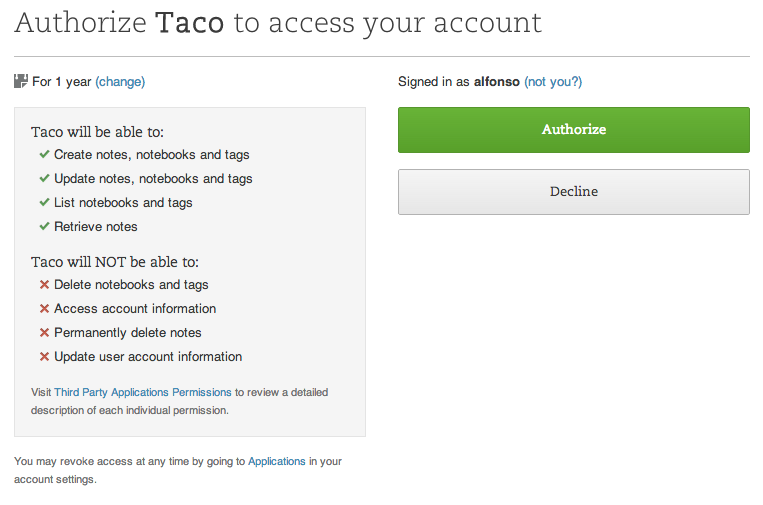
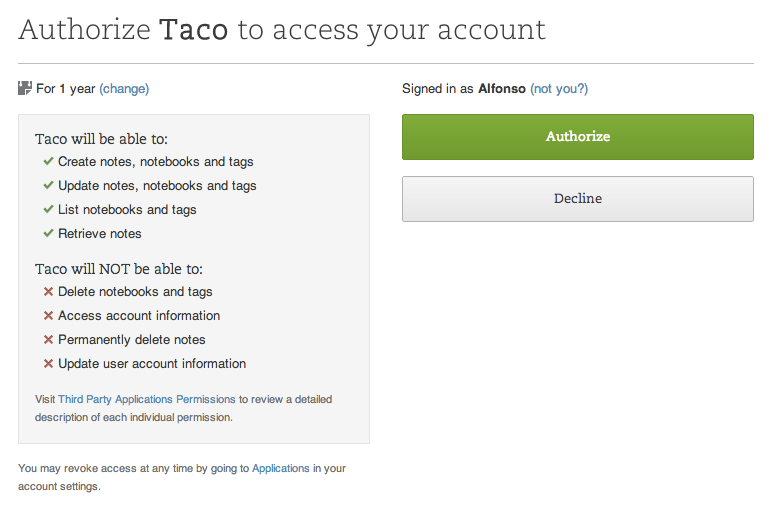
Evernote

diff --git a/_posts/2013-07-27-evernote.md b/_posts/2013-07-27-evernote.md
@@ -1,0 +1,89 @@
+---
+layout: page
+title: "Evernote"
+category: connectors
+date: 2013-07-27 10:30:13
+order: 45
+---
+
+# Setup
+
+To connect Evernote with Taco, from the Connectors page, click
+"Evernote." Evernote will present a confirmation page like this:
+
+![Sync Evernote tasks with OAuth]({{ site.url }}/assets/images/connectors/evernote/oauth.png)
+
+
+# Behavior
+
+Most Evernote users keep tasks in one of two forms:
+
+* As checkboxes within one note or a few notes, like "Things to do." In
+  this case, each un-checked checkbox is a task
+  ([example](http://blog.evernote.com/blog/2012/09/14/quick-tip-friday-create-checklists-faster-with-auto-checkboxes/)
+* As a note per task, often with more details in the note itself. In
+  this case, each note name is a task. These might be tagged with
+  "tasks" or simply identified by name, like "To do: wash the dishes."
+
+Taco works with either or both. After linking Evernote, you'll see this:
+
+![Evernote settings]({{ site.url }}/assets/images/connectors/evernote/settings.png)
+
+Enable either or both options based on whether you keep tasks as notes
+or as checkboxes inside a note. Next, tell Taco which notebooks, notes,
+or tags to examine. Taco uses the same Evernote 
+[searches](http://dev.evernote.com/doc/articles/search_grammar.php#Search_Terms),
+which work on evernote.com.
+
+Here are a few common cases. If we can help find the perfect search for
+your Evernote tasks, just contact us.
+
+## I have a single task list note called "Task list"
+
+Enable the checkboxes option. For "Only notes matching..", enter the
+name of the note (surrounded by quotes):
+
+    "Task list"
+
+## I have 3 task list notes (Work, Home, and Big Projects)
+
+Enable the checkboxes option. For "Only notes matching..", enter the
+word `any:` followed by the names of the notes:
+
+    any: Work Home "Big Projects"
+
+If the 3 are all in a single notebook (with no other notes), the name of
+the notebook can be used instead. For example:
+
+    notebook:"Task lists"
+
+Alternatively, if the 3 notes all share a common tag, the tag can be
+used instead of a. For example:
+
+    tag:todos
+
+## I have 20 individual notes, one for each project
+
+Enable the individual notes option. For "Only notes matching..", enter a
+notebook, note name, or tag which matches the notes. For example:
+
+    notebook:"Stuff to do"
+
+Or if they're either tagged with `projects` or contain the word `task`
+in the note label, match either:
+
+    any: tag:projects task
+
+Taco will match the same notes that evernote.com returns for this
+search.
+
+## I use both
+
+Enable both options and follow the instructions above to choose a search
+to find the notes you use for each. Taco will retrieve both.
+
+## Advanced
+
+Want to dive in? Evernote's [search grammar](http://dev.evernote.com/doc/articles/search_grammar.php#Search_Terms) 
+has a detailed description of all Evernote search features, which should
+all be supported by Taco.

diff --git a/_posts/2013-07-27-asana.md b/_posts/2013-07-27-asana.md
@@ -8,7 +8,7 @@ order: 10
 
 # Setup
 
-To connect Asana with Taco, from the images/connectors page, click "Asana."
+To connect Asana with Taco, from the Connectors page, click "Asana."
 Asana will present a confirmation page like this:
 
 ![Sync Asana tasks with OAuth]({{ site.url }}/assets/images/connectors/asana/oauth.png)
